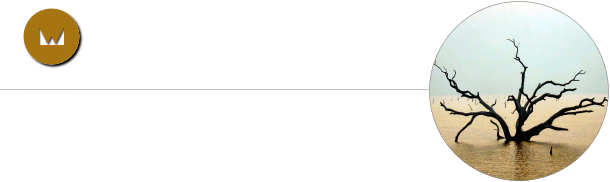
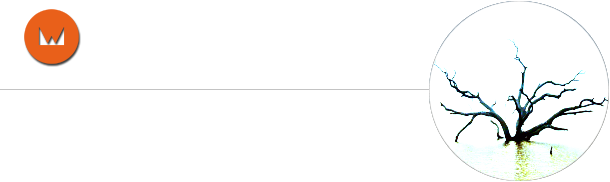
work in progress new style.
git-svn-id: file:///home/igor/dev/stuff/svnbackup/trunk@52 ef7698a4-5110-0410-9fc6-c7eb3693863f

diff --git a/wicket-stuff/xdocs/style/wicket.css b/wicket-stuff/xdocs/style/wicket.css
@@ -1,6 +1,7 @@
 .clear,br {
 	display: none;
 }
+
 body {
 	background-color: white;
 	background-image: url('body-bg.png');
@@ -35,6 +36,7 @@ div {
 	padding-left: 1px;
 	padding-right: 1px;
 }
+
 #banner {
 	height: 182px;
 	background-color: white;
@@ -48,13 +50,13 @@ div {
 }
 #organizationLogo {
 	position : absolute;
-	top : 95px;
-	left : 25px;
+	top : 27px;
+	left : 86px;
 }
 #projectLogo {
 	position : absolute;
-	top : 23px;
-	left : 87px;
+	top : 95px;
+	left : 25px;
 }
 #poweredBy {
 	display : none;
@@ -62,7 +64,7 @@ div {
 #breadcrumbs {
 	position : absolute;
 	top : 70px;
-	left : 150px;
+	left : 151px;
 }
 
 div .xright {
@@ -141,7 +143,7 @@ div#footer div.xright {
 }
 
 h1,h2,h3,h4,h5,h6,h7,h8 {
-	color:  #A67411;  //#E9601A;
+	color: #E9601A;
 }
 
 h2 {
@@ -162,13 +164,13 @@ a {
 }
 
 dt {
-	color: #A67411;
+	color: #E9601A;
 	font-weight : bold;
 }
 
 dt a {
 	text-decoration: none;
-	color: #A67411;
+	color: #E9601A;
 }
 dd {
 	margin-left : 0;
